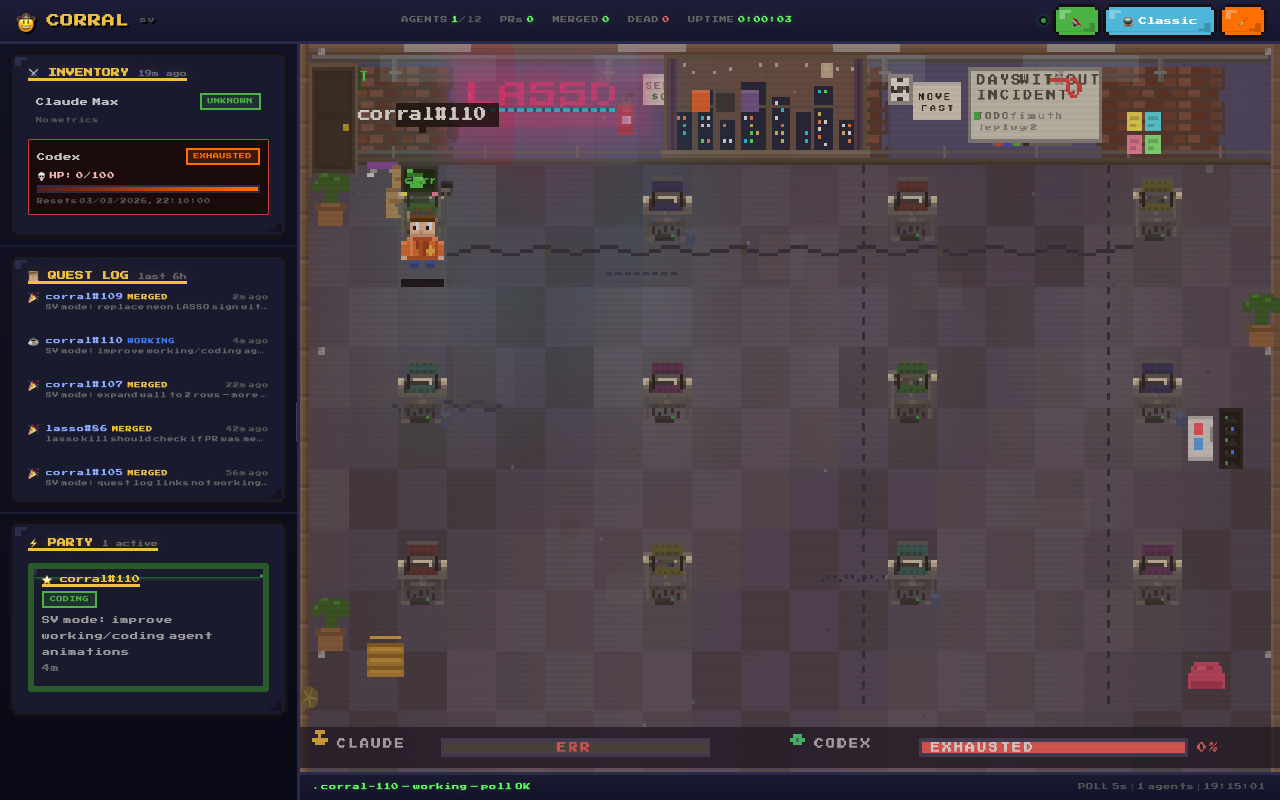
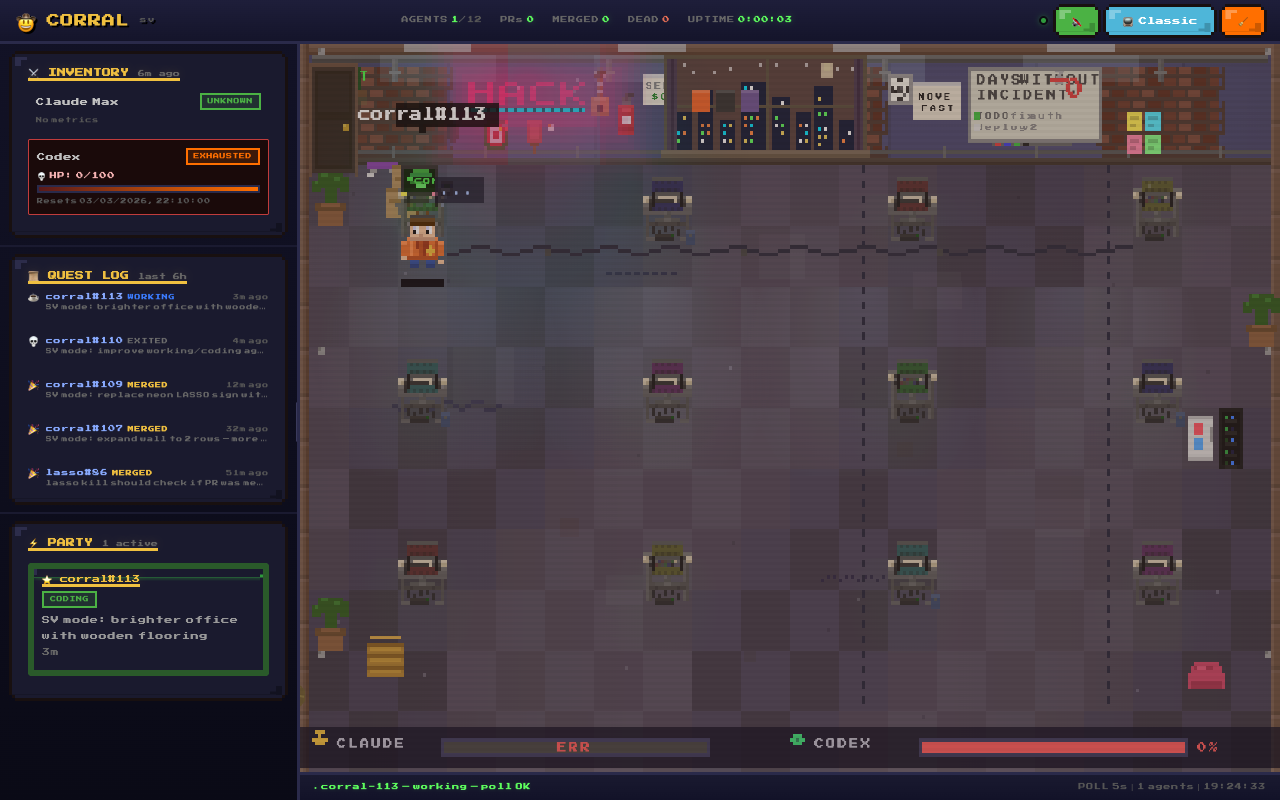
SV mode: brighter office with wooden flooring (#114)
Replace dark concrete/epoxy floor with warm oak wood planks.
- Updated floor palette from dark purples (#4a4458) to warm wood tones (#c8a876)
- Horizontal plank pattern with 3-row bands and 4 alternating colors
- Wood grain texture (subtle darker lines within planks)
- Plank seams between bands
- Wood knots for natural character
- Replaced concrete cracks/scuff marks with wood-appropriate details
- Increased warm ambient overlay for brighter feel

diff --git a/sv.html b/sv.html
@@ -1598,8 +1598,8 @@ const PAL = {
   wb: '#d8d8c8', wbFrame: '#888',
   pizza: '#c49b2a', pizzaDark: '#8b6914',
   // SV environment upgrades
-  svFloor1: '#4a4458', svFloor2: '#3a3648', svFloor3: '#524c62', svFloor4: '#44405a',
-  svFloorWarm: 'rgba(255,200,100,0.03)',
+  svFloor1: '#c8a876', svFloor2: '#b89860', svFloor3: '#d4b888', svFloor4: '#bfa070',
+  svFloorWarm: 'rgba(255,210,120,0.06)',
   svBrick: '#6a3a2a', svBrickDark: '#5a2e20', svBrickMortar: '#4a3830',
   svConduit: '#555', svConduitLight: '#666',
   svFluor: '#c8e8ff', svFluorGlow: 'rgba(200,232,255,0.06)',
@@ -2503,23 +2503,60 @@ function drawTumbleweed() {
 
 function drawFloorSV() {
   // Floor starts at row 2 (rows 0-1 are wall)
-  for (let r = 2; r < ROWS; r++)
+  // Wood plank palette — 4 alternating plank colors for variety
+  const plankColors = [PAL.svFloor1, PAL.svFloor2, PAL.svFloor3, PAL.svFloor4];
+  // Each plank band is 3 rows tall; assign a color per band with pseudo-random offset
+  for (let r = 2; r < ROWS; r++) {
+    const band = Math.floor((r - 2) / 3);
     for (let c = 0; c < COLS; c++) {
-      const checker = (c + r) % 2;
+      // Slight per-tile color variation within a band
       const noise = Math.sin(c * 7 + r * 13) * 0.5 + 0.5;
-      let base;
-      if (checker === 0) base = noise > 0.3 ? PAL.svFloor1 : PAL.svFloor2;
-      else base = noise > 0.5 ? PAL.svFloor3 : PAL.svFloor4;
-      tileRect(c, r, 1, 1, base);
+      const colorIdx = (band + (noise > 0.7 ? 1 : 0)) % plankColors.length;
+      tileRect(c, r, 1, 1, plankColors[colorIdx]);
     }
+  }
   ctx.save(); ctx.scale(SCALE, SCALE);
   const W = COLS * TILE, H = ROWS * TILE;
   const WALL_H = TILE * 2;
+  // Wood grain — subtle darker horizontal lines within planks
+  ctx.fillStyle = 'rgba(100,60,20,0.08)';
+  for (let r = 2; r < ROWS; r++) {
+    const ry = r * TILE;
+    // 2-3 grain lines per tile row
+    for (let g = 0; g < 3; g++) {
+      const gy = ry + 3 + g * 5 + (Math.sin(r * 4.7 + g * 2.3) * 1.5 | 0);
+      if (gy >= ry && gy < ry + TILE) {
+        // Grain lines span full width with small gaps for natural look
+        for (let x = 0; x < W; x += 2) {
+          const skip = Math.sin(x * 0.3 + r * 1.7 + g) > 0.85;
+          if (!skip) ctx.fillRect(x, gy, 2, 1);
+        }
+      }
+    }
+  }
+  // Plank seams — thin dark horizontal lines between plank bands (every 3 rows)
+  ctx.fillStyle = 'rgba(80,50,20,0.25)';
+  for (let r = 2; r < ROWS; r++) {
+    if ((r - 2) % 3 === 0 && r > 2) {
+      const sy = r * TILE;
+      ctx.fillRect(0, sy, W, 1);
+    }
+  }
+  // Wood knots — occasional small darker ovals
+  ctx.fillStyle = 'rgba(90,55,20,0.15)';
+  const knots = [[45, 52], [130, 85], [210, 130], [75, 145], [260, 68], [170, 160]];
+  for (const [kx, ky] of knots) {
+    if (ky >= WALL_H) {
+      ctx.beginPath();
+      ctx.ellipse(kx, ky, 2, 1.5, 0, 0, Math.PI * 2);
+      ctx.fill();
+    }
+  }
   // Per-row depth gradient — darker at edges, lighter center (floor rows only)
   for (let r = 2; r < ROWS; r++) {
     const ry = r * TILE;
     const grad = ctx.createLinearGradient(0, ry, W, ry);
-    const edgeA = (0.06 + r * 0.004).toFixed(3);
+    const edgeA = (0.04 + r * 0.003).toFixed(3);
     const midA = '0.000';
     grad.addColorStop(0, 'rgba(0,0,0,' + edgeA + ')');
     grad.addColorStop(0.35, 'rgba(0,0,0,' + midA + ')');
@@ -2530,31 +2567,20 @@ function drawFloorSV() {
   }
   // Depth gradient below wall — darker near wall base
   const ceilGrad = ctx.createLinearGradient(0, WALL_H, 0, WALL_H + TILE * 2);
-  ceilGrad.addColorStop(0, 'rgba(0,0,20,0.08)');
+  ceilGrad.addColorStop(0, 'rgba(0,0,20,0.06)');
   ceilGrad.addColorStop(1, 'rgba(0,0,20,0)');
   ctx.fillStyle = ceilGrad;
   ctx.fillRect(0, WALL_H, W, TILE * 2);
   // Warm ambient tint
   ctx.fillStyle = PAL.svFloorWarm;
   ctx.fillRect(0, WALL_H, W, H - WALL_H);
-  // Concrete cracks
-  ctx.fillStyle = '#2e2845';
-  for (let i = 0; i < 18; i++) ctx.fillRect(30 + i * 2, 95 + (Math.sin(i * 1.3) * 2 | 0), 2, 1);
-  for (let i = 0; i < 12; i++) ctx.fillRect(170 + i * 2, 140 + (i % 3 === 0 ? 1 : 0), 1, 1);
-  for (let i = 0; i < 8; i++) ctx.fillRect(100 + i * 3, 60 + (Math.sin(i * 0.7) | 0), 2, 1);
-  // Scuff marks — occasional single dark pixels
-  ctx.fillStyle = 'rgba(20,15,30,0.18)';
-  for (let i = 0; i < 10; i++) {
-    const sx = (i * 31 + 17) % W, sy = WALL_H + (i * 23 + 7) % (H - WALL_H);
-    ctx.fillRect(sx, sy, 1, 1);
-  }
-  // Floor stains (spilled coffee, etc)
-  ctx.fillStyle = 'rgba(60,40,20,0.12)';
+  // Coffee stains — subtle on wood
+  ctx.fillStyle = 'rgba(80,50,20,0.07)';
   ctx.fillRect(85, 125, 6, 5);
   ctx.fillRect(195, 105, 5, 4);
   ctx.fillRect(145, 160, 4, 3);
-  // Epoxy shine spots — subtle specular highlights
-  ctx.fillStyle = 'rgba(255,255,255,0.03)';
+  // Wood polish highlights — subtle specular
+  ctx.fillStyle = 'rgba(255,255,240,0.05)';
   ctx.fillRect(50, 80, 20, 15);
   ctx.fillRect(150, 50, 15, 12);
   ctx.fillRect(240, 120, 18, 10);
